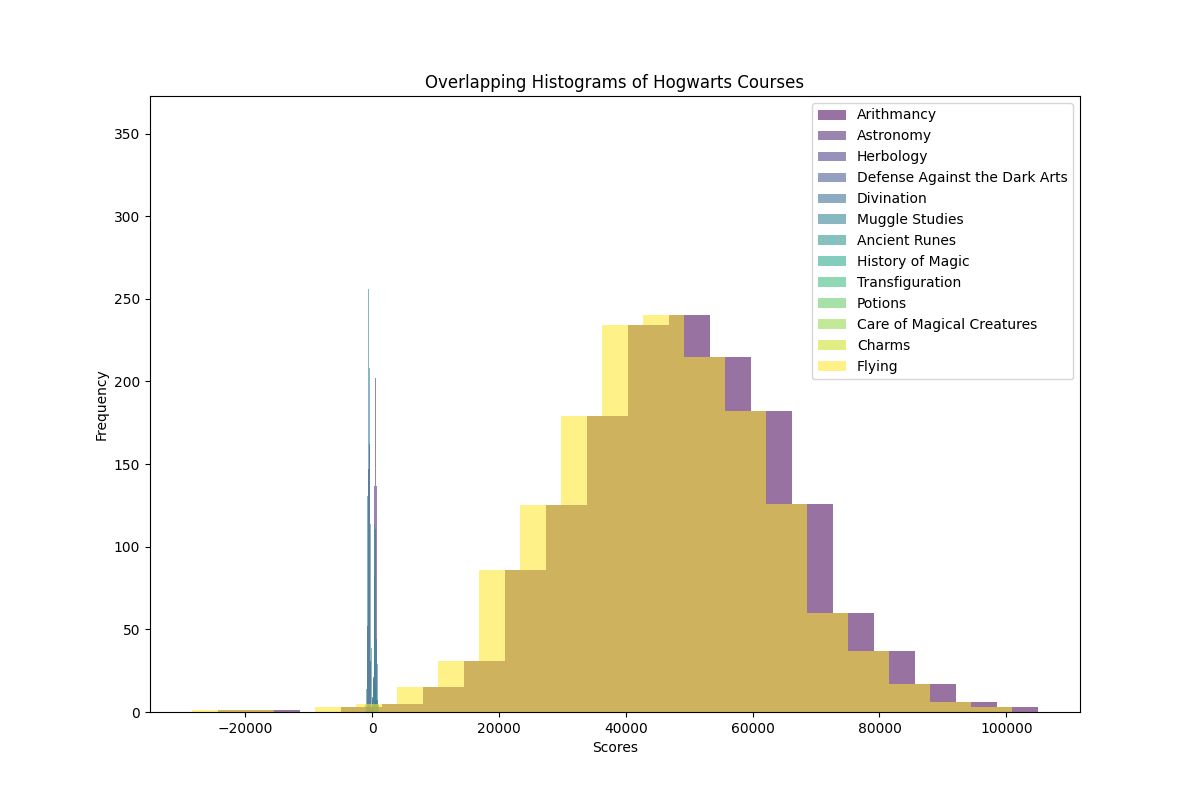
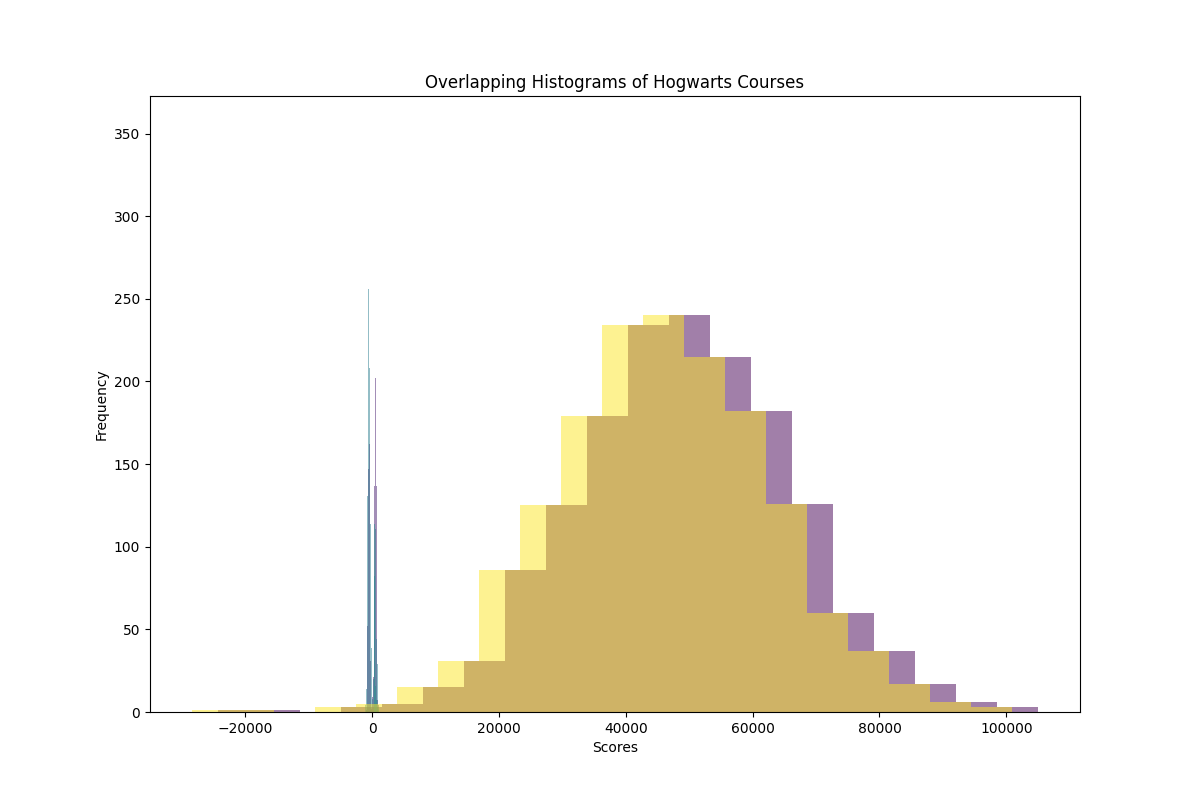
handle unlimited houses

Changed region(s): [[0.6783, 0.125, 0.8942, 0.4688], [0.8325, 0.375, 0.8633, 0.4062]]

diff --git a/ex02/histogram.py b/ex02/histogram.py
@@ -1,40 +1,14 @@
-
+from matplotlib.lines import Line2D
 import csv 
 import pandas as pd
 import sys
 import numpy as np
 import matplotlib.pyplot as plt
-import matplotlib as mpl
 
 
 def eprint(*args, **kwargs):
 	print('Error:', *args, file=sys.stderr, **kwargs)
 
-
-def print_number_of_student_in_each_house(data_table):
-	data_table = np.array(data_table)
-	houses = data_table[:, 1:2]
-	cnt1 = 0
-	cnt2 = 0
-	cnt3 = 0
-	cnt4 = 0
-	for house in houses:
-		if house == 'Ravenclaw':
-			cnt1 += 1
-		elif house == 'Slytherin':
-			cnt2 += 1
-		elif house == 'Hufflepuff':
-			cnt3 += 1
-		elif house == 'Gryffindor':
-			cnt4 += 1
-		else:
-			raise Exception("Data base has unexpected house")
-	print("Number of students in each house is:")
-	print("Ravenclaw:", cnt1)
-	print("Slytherin:", cnt2)
-	print("Hufflepuff", cnt3)
-	print("Gryffindor", cnt4)
-	print()
 
 def generate_courses():
 	with open(sys.argv[1]) as file:
@@ -46,48 +20,74 @@ def generate_courses():
 			reader = np.array(row)
 			return reader[6:]
 
+
 def normalize_score(data, courses):
 	for course in courses:
 		old_max = data[course].max()
 		old_min = data[course].min()
 		data[course] = (data[course] - old_min) / (old_max - old_min)
 
+
+def get_data_of_houses(data):
+	houses = []
+	mix_houses = data['Hogwarts House']
+	for house in mix_houses:
+		if house not in houses:
+			houses.append(house)
+	
+	data_of_houses = []
+	for house in houses:
+		data_of_houses.append(data[data['Hogwarts House'] == house])
+	return data_of_houses
+
+
+def display_all(courses, data_of_houses):
+	plt.figure(figsize=(12, 8))
+
+	num_courses = len(courses)
+	ncols = int(num_courses ** 0.5) + 1
+	nrows = (num_courses - 1 ) // ncols + 1
+	fig, axs = plt.subplots(nrows, ncols, figsize=(15, 12))
+	axs = axs.flatten()
+	colors = plt.cm.viridis(np.linspace(0, 1, len(data_of_houses)))
+
+	for i, course in enumerate(courses):
+		for cnt, data_of_a_house in enumerate(data_of_houses):
+			axs[i].hist(data_of_a_house[course], bins=21, alpha=0.55, color=colors[cnt])
+		axs[i].set_title(course)
+		axs[i].set_xlabel('Normalized Scores')
+		axs[i].set_ylabel('Frequency')
+
+	for j in range(len(courses), len(axs)):
+		fig.delaxes(axs[j])
+	
+	custom_lines = [Line2D([0], [1], color=colors[0], lw=16	),
+					Line2D([0], [1], color=colors[1], lw=16	),
+					Line2D([0], [1], color=colors[2], lw=16	),
+					Line2D([0], [1], color=colors[3], lw=16	)]
+	
+	fig.legend(custom_lines, ['Ravenclaw', 'Slytherin', 'Gryffindor', 'Hufflepuff'],\
+				fontsize='large', loc='lower right', ncol=2, bbox_to_anchor=(1, 0),\
+				handlelength=3.5, handleheight=2.5)
+
+	plt.tight_layout()
+	plt.title('Overlapping Histograms of Hogwarts Courses')
+	plt.savefig('/app/ex02/histograms.png')
+
+
+def display_winner(courses, data_of_houses):
+	print(np.linspace(0, 1, 21).__class__)
+
+
 def main() -> None:
 	try:
 		data = pd.read_csv(sys.argv[1])
-		print_number_of_student_in_each_house(data)
 		courses = generate_courses()
 		normalize_score(data, courses)
-		data_1 = data[data['Hogwarts House'] == 'Ravenclaw']
-		data_2 = data[data['Hogwarts House'] == 'Slytherin']
-		data_3 = data[data['Hogwarts House'] == 'Gryffindor']
-		data_4 = data[data['Hogwarts House'] == 'Hufflepuff']
-		
+		data_of_houses = get_data_of_houses(data)
+		# display_all(courses, data_of_houses)
+		display_winner(courses, data_of_houses)
 
-		plt.figure(figsize=(12, 8))
-
-		num_courses = len(courses)
-		ncols = 4
-		nrows = (num_courses - 1 ) // ncols + 1
-		fig, axs = plt.subplots(nrows, ncols, figsize=(15, 12))
-		axs = axs.flatten()
-		colors = plt.cm.viridis(np.linspace(0, 1, 4))
-
-		for i, course in enumerate(courses):
-			axs[i].hist(data_1[course], bins=20, alpha=0.55, color=colors[0])
-			axs[i].hist(data_2[course], bins=20, alpha=0.55, color=colors[1])
-			axs[i].hist(data_3[course], bins=20, alpha=0.55, color=colors[2])
-			axs[i].hist(data_4[course], bins=20, alpha=0.55, color=colors[3])
-
-			axs[i].set_title(course)
-			axs[i].set_xlabel('Normalized Scores')
-			axs[i].set_ylabel('Frequency')
-
-		for j in range(len(courses), len(axs)):
-			fig.delaxes(axs[j])
-
-		plt.tight_layout()
-		plt.savefig('/app/ex02/histograms.png')
 
 	except Exception as e:
 		eprint(e)
@@ -95,3 +95,4 @@ def main() -> None:
 
 if  __name__ == "__main__":
 	main()
+

diff --git a/ex01/describe.py b/ex01/describe.py
@@ -1,9 +1,8 @@
-import numpy as np
 import csv
 import sys
 
 def read_data(file_path):
-	with open(file_path) as file:
+	with open(sys.argv[1]) as file:
 		reader = csv.reader(file, delimiter=',')
 		reader = list(reader)
 		return reader
@@ -14,7 +13,7 @@ def eprint(*args, **kwargs):
 
 
 
-def find_column_length_max(data_table:list):
+def find_column_length_max(data_table):
 	columns = []
 	counter = 0
 	for cnt in data_table[0]:
@@ -23,7 +22,7 @@ def find_column_length_max(data_table:list):
 		counter += 1
 
 
-def extract_column_value(data_table:list, column):
+def extract_column_value(data_table, column):
 	ret = []
 	for row in data_table[1:]:
 		if row[column] != '':
@@ -151,7 +150,7 @@ def decide_length_to_print(return_table):
 
 
 def print_return_table(return_table):
-	column_width = decide_length_to_print(return_table)	
+	column_width = decide_length_to_print(return_table)
 	for row in return_table:
 		i = 0
 		for index in row:
@@ -169,13 +168,7 @@ def main() -> None:
 			raise Exception("Usage: python3 describe.py [dataset]")
 		data_table = read_data(sys.argv[1])
 		return_table = create_return_table(data_table)
-		# for row in return_table:
-		# 	print(row)
-		new = np.array(return_table)
-		new = return_table[1:3, 2:4]
-		for row in new:
-			print(row)
-		# print_return_table(return_table)
+		print_return_table(return_table)
 
 	except Exception as e:
 		eprint(e)
